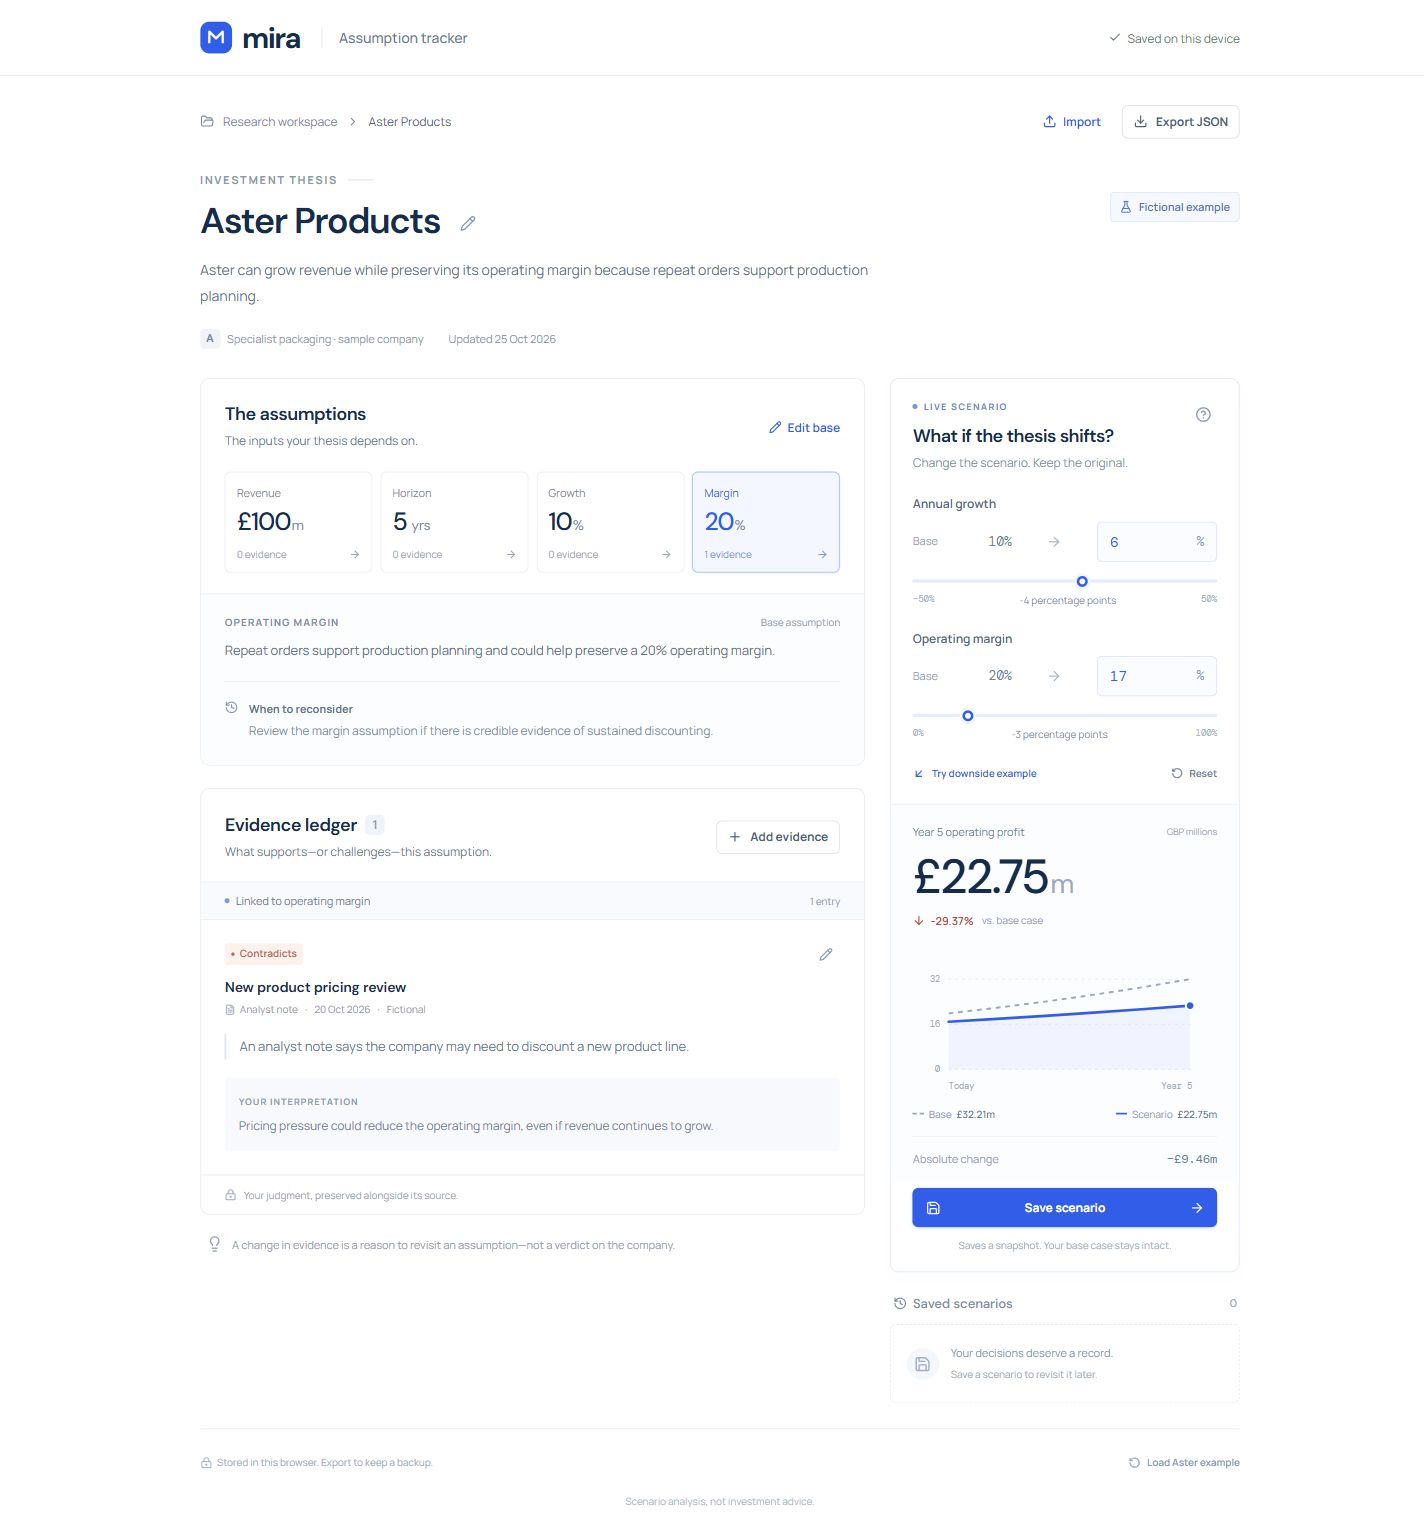
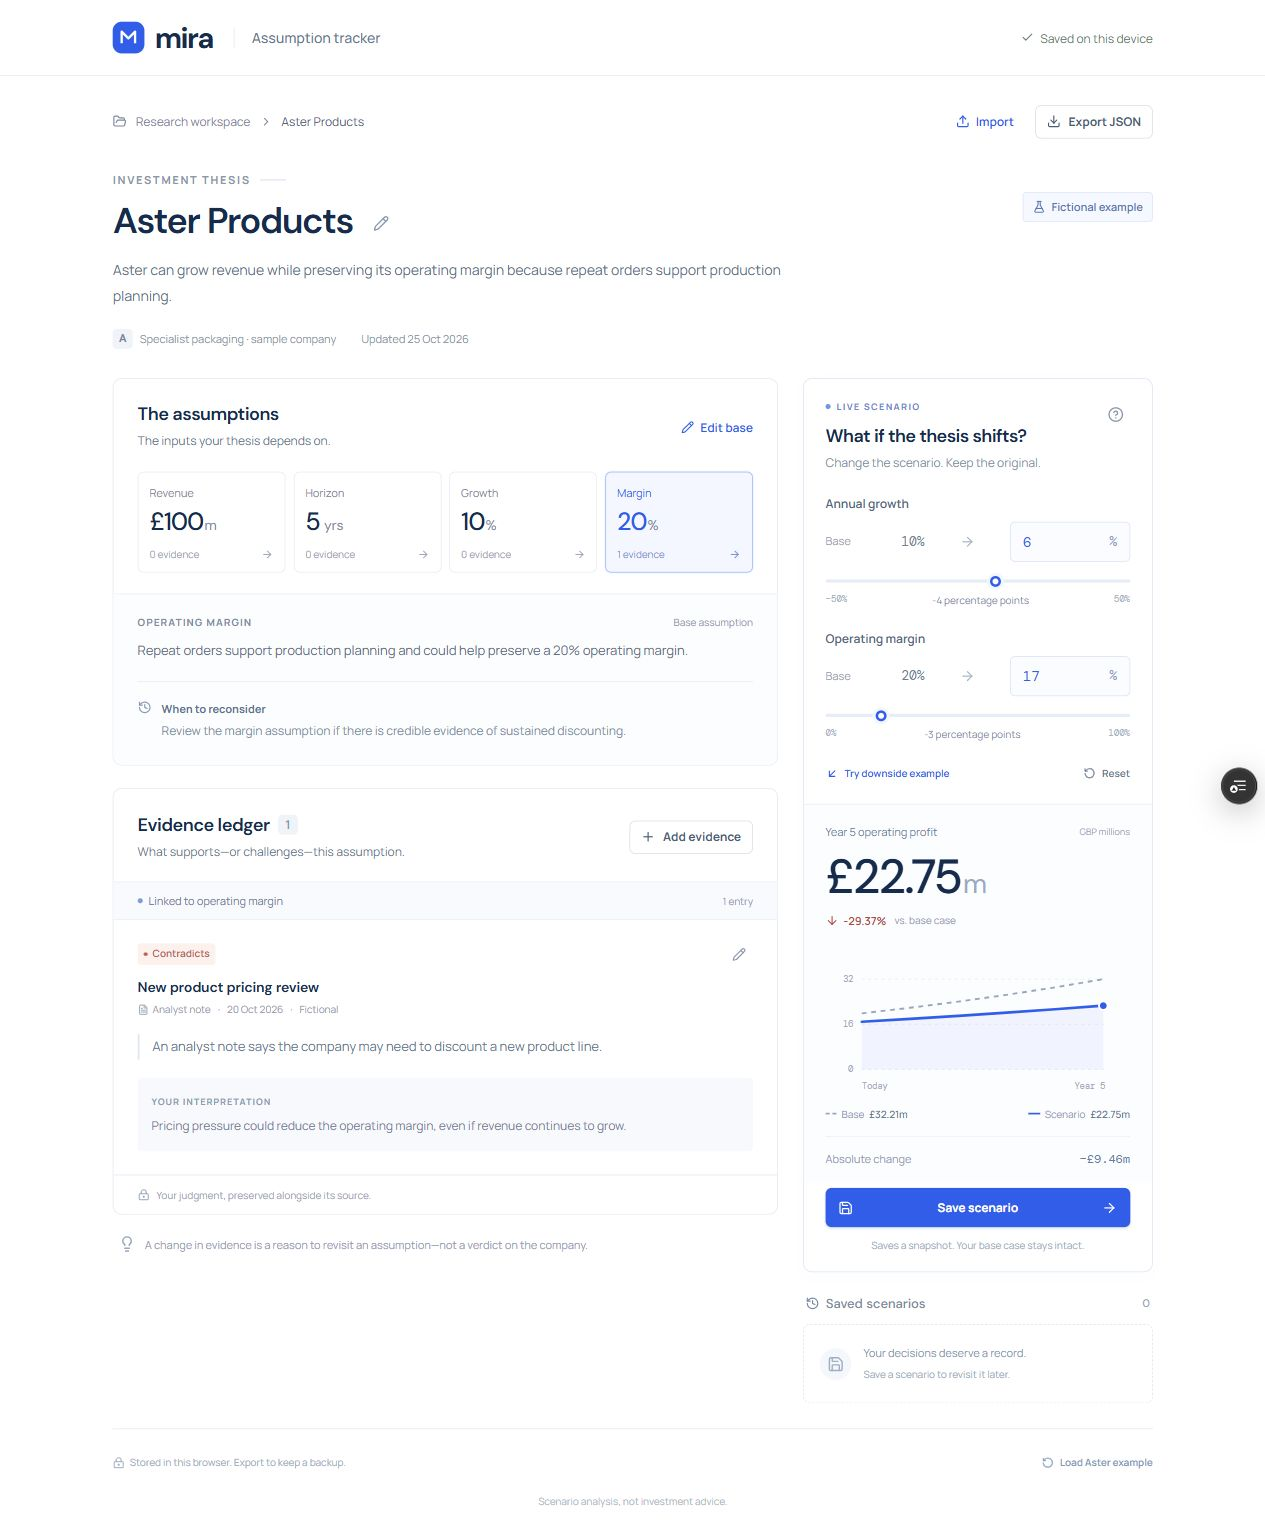
Record clean build and deployed browser verification

diff --git a/devpost/checklist.md b/devpost/checklist.md
@@ -8,9 +8,11 @@ execution: delegated
 
 Build mode: fast; autonomous implementation explicitly requested. Human reviews are not marked complete on the user's behalf.
 
+Checked slices below mean implemented and mechanically verified by the agent. They do not assert completed learner checks. Implementation commits: `fb14a7d` and `c8afeca`.
+
 ## Slices
 
-- [ ] **1. Inspect the thesis and compare two valid profit scenarios**
+- [x] **1. Inspect the thesis and compare two valid profit scenarios**
       Becomes usable: A running Aster workspace with baseline, scenario inputs and projected profit.
       Why now: Proves the distinctive financial loop before ancillary interactions.
       PRD ref: `prd.md > The Core Journey`, `Scenario and Export`
@@ -20,7 +22,7 @@ Build mode: fast; autonomous implementation explicitly requested. Human reviews 
       Learner check: Change growth to 6% and margin to 17%; inspect £22.75m against £32.21m.
       Commit: `Build transparent operating-profit workspace`
 
-- [ ] **2. Attach evidence and preserve a thesis across sessions**
+- [x] **2. Attach evidence and preserve a thesis across sessions**
       Becomes usable: Thesis, baseline and evidence editors; dated reviews; valid local persistence; independent snapshots.
       Why now: Connects a belief to observable evidence and a durable decision record.
       PRD ref: `prd.md > Thesis`, `Assumptions`, `Evidence`
@@ -30,7 +32,7 @@ Build mode: fast; autonomous implementation explicitly requested. Human reviews 
       Learner check: Attach a contrary analyst note to margin and reload.
       Commit: `Connect evidence and persist research decisions`
 
-- [ ] **3. Transfer, recover and demonstrate the final workspace**
+- [x] **3. Transfer, recover and demonstrate the final workspace**
       Becomes usable: Validated JSON transfer, confirmed reset/import, corruption recovery and reviewer docs.
       Why now: Protects user work and makes the complete demo reproducible.
       PRD ref: `prd.md > States and Boundaries`, `Acceptance Criteria`
@@ -50,9 +52,10 @@ Build mode: fast; autonomous implementation explicitly requested. Human reviews 
 
 ## Code Tour and App Map
 
-- [ ] App map generated and verified against finished code.
+- [x] App map generated, browser-loaded and verified against finished code; references are factual. Opening in the code panel was queued.
 - [ ] Personal learning reflection not supplied; no learning activity claimed.
 
 ## Revisions
 
 - User explicitly delegated decisions and requested no further questions. Planning/review gates are not treated as performed interviews or human approval; implementation proceeds under that direct instruction.
+- The first code commit integrated the small local workflow more broadly than the planned first slice. The following checkpoint added the acceptance suite, provenance labels, font notices, technical documentation and browser evidence. Actual commit names/history take precedence over the initial planned messages.

diff --git a/docs/acceptance.md b/docs/acceptance.md
@@ -26,3 +26,12 @@ Date: **25 October 2026 (IST)**. Initial implementation commit: `fb14a7d`. Final
 | Mobile | 390×844 viewport tested; columns stacked, assumption tiles readable, document width did not exceed viewport. |
 
 Storage corruption/quota are verified through injected storage adapters in automated tests, not claimed as browser permission changes. Human exploration and learning reflection have not been performed on the user's behalf. Planning status remains draft under explicit implementation delegation.
+
+## Final build and publication checks
+
+- Committed implementation `c8afeca` extracted with `git archive` into a fresh temporary directory. `npm ci`, all 40 tests and the production build passed there without relying on the development node_modules.
+- Public GitHub repository verified through an unauthenticated GitHub API request: public visibility, MIT licence and default branch `codex/mira`.
+- Latest Vercel preview: `dpl_691eLjCYhjHYwbowCuUcntEKYZjv`, target preview, status Ready. Loaded through its scoped share link in a fresh browser origin, without signing in.
+- Deployed browser checks: edit company/thesis, preserve seeded fictional evidence labels after changing the company, cancel reset without losing changes, explicitly reset to Aster, and reproduce the downside fixture.
+- Final desktop screenshot and 390px mobile screenshot captured from the latest preview. Mobile document width 376px did not exceed the measured viewport 391px.
+- Local explorable app map loaded successfully and displayed its code paths and expandable steps.

diff --git a/docs/build-log.md b/docs/build-log.md
@@ -13,6 +13,9 @@
 - Verified arithmetic and data boundaries in 40 automated tests; exercised real browser workflows. Repaired date-input retention discovered during the browser check. Increased small-text readability and used a two-by-two assumption grid on mobile.
 - Initial code checkpoint: `fb14a7d`. Includes the integrated core loop and editing/transfer interactions; review refinements and acceptance tests follow in later commits. The first checkpoint was broader than the planned first slice because the small local workflow was implemented together.
 - User-facing copy in the app and factual technical documentation are agent-authored. Personal Devpost submission text and learning responses have not been fabricated or submitted.
+- Final implementation checkpoint `c8afeca` passed npm ci/test/build from a fresh archived checkout. Published to the public MIT GitHub repository; verified repository metadata without authentication.
+- Vercel's default command treated the new project's first deploy as production. It completed before cancellation was possible. Subsequent deployments explicitly selected preview. The final preview at deployment `dpl_691eLjCYhjHYwbowCuUcntEKYZjv` is Ready and has a verified 30-day scoped access link. No existing application was replaced.
+- Final desktop/mobile captures come from that final preview. App map opened successfully through the local server. Personal review and the required video/submission remain outstanding.
 
 ## Reuse and services
 

diff --git a/docs/submission-record.md b/docs/submission-record.md
@@ -4,8 +4,10 @@
 - Existing Devpost submission: https://devpost.com/submit-to/30447-build-with-ai-basics/manage/submissions/1229432/project-overview
 - Devpost state last inspected: **Untitled · DRAFT · 1/5 steps done**.
 - Deadline displayed: **27 October 2026, 02:30 IST**.
-- Application: implemented and locally verified; deployment status recorded here after verification.
-- Public repository: not created at initial record; update after publication.
+- Application: implemented, locally and remotely verified. Final implementation commit `c8afeca`.
+- Public repository: https://github.com/dakshverma-dev/mira-assumption-tracker — public/MIT, default branch `codex/mira`.
+- Latest preview: https://mira-assumption-tracker-e0qzzqnm4.vercel.app — deployment `dpl_691eLjCYhjHYwbowCuUcntEKYZjv`, Ready. A scoped share link was verified and delivered in the build handoff; it expires 24 November 2026 at 00:52 IST.
+- Initial public deployment: https://mira-assumption-tracker.vercel.app — Vercel automatically treated the new project's first default deploy as production. It was already Ready when cancellation was attempted. Later builds explicitly target preview; the public alias is the earlier build, not the final preview.
 - Required public demo video: not recorded/uploaded yet.
 - Learner-authored submission/survey: not completed.
 - Human review of planning files: not completed; files are substantive draft plans under explicit delegation.

diff --git a/README.md b/README.md
@@ -2,6 +2,10 @@
 
 A local research workspace for an investor's thesis, its financial assumptions, linked evidence and a transparent operating-profit scenario. Aster Products and every seeded observation are fictional.
 
+![Mira's research workspace and downside scenario](docs/screenshots/mira-desktop.jpg)
+
+Hosted builds and current submission state are recorded in [the submission record](docs/submission-record.md). A 30-day preview access link is included in the build handoff.
+
 ## Try the core loop
 
 1. Open the app. First visit loads Aster Products.
